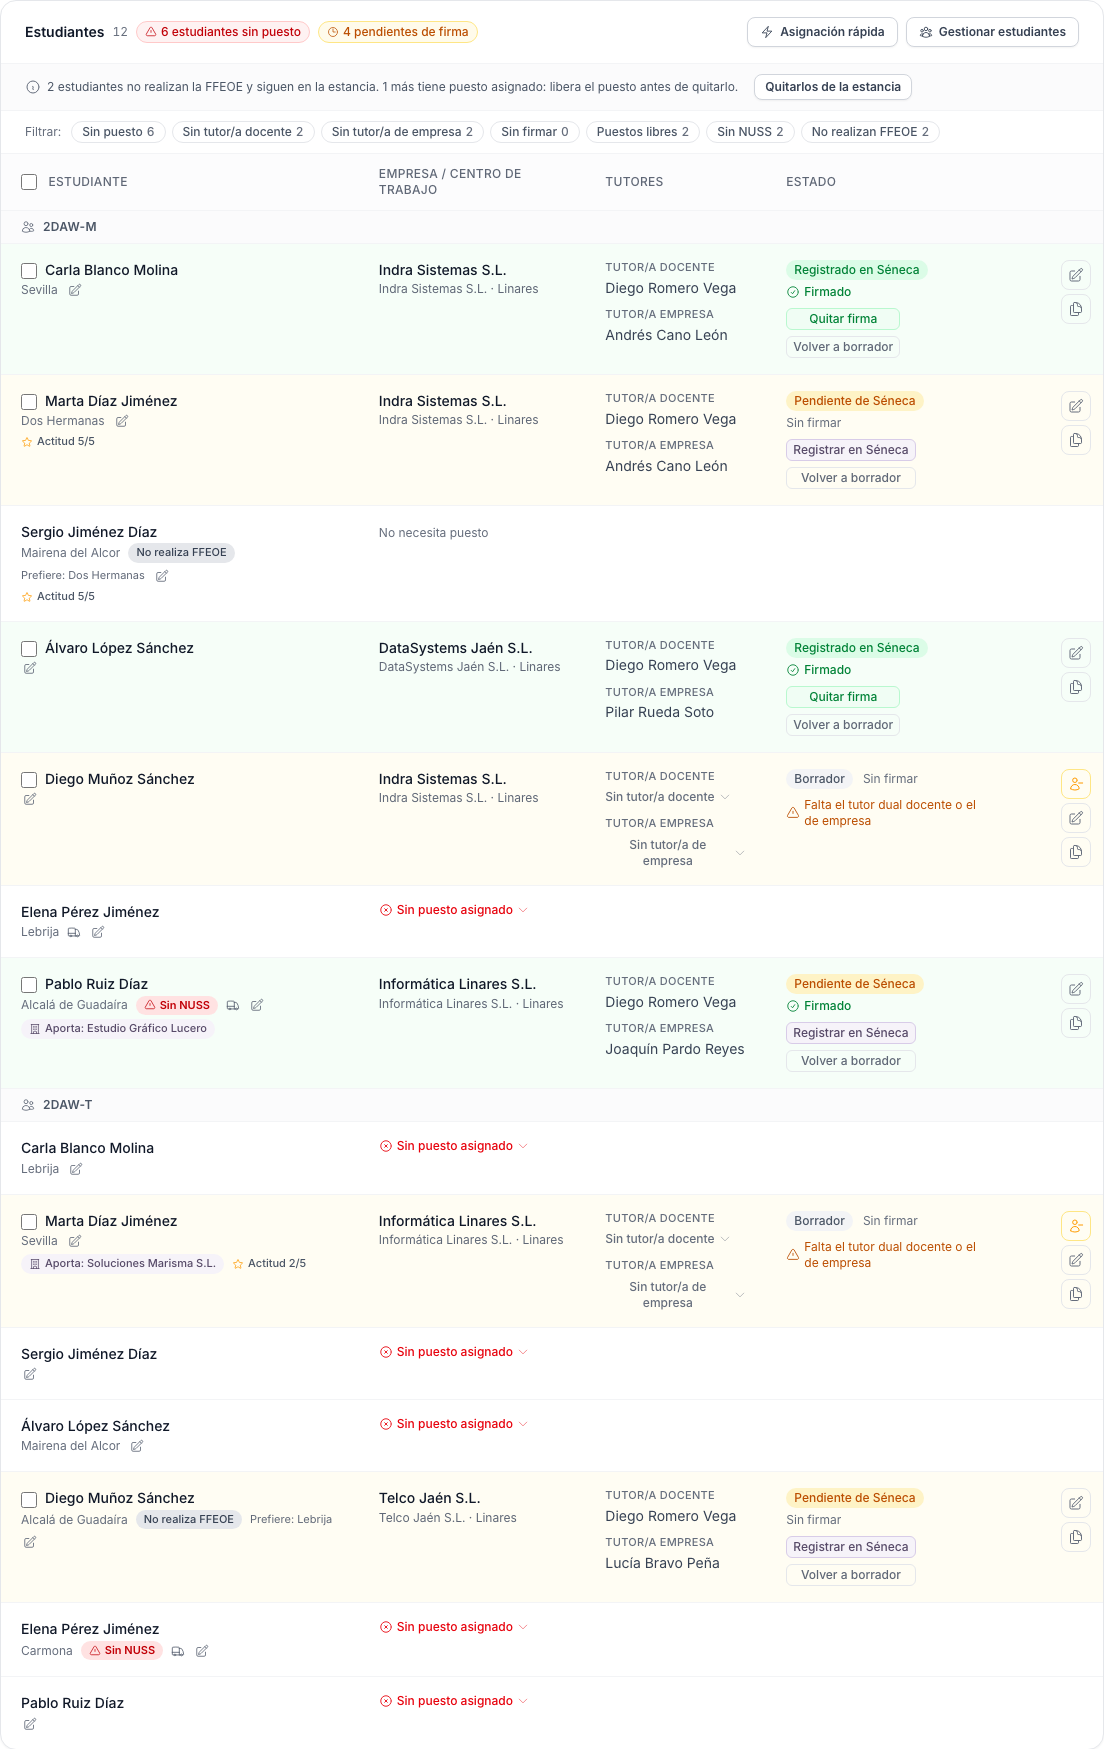
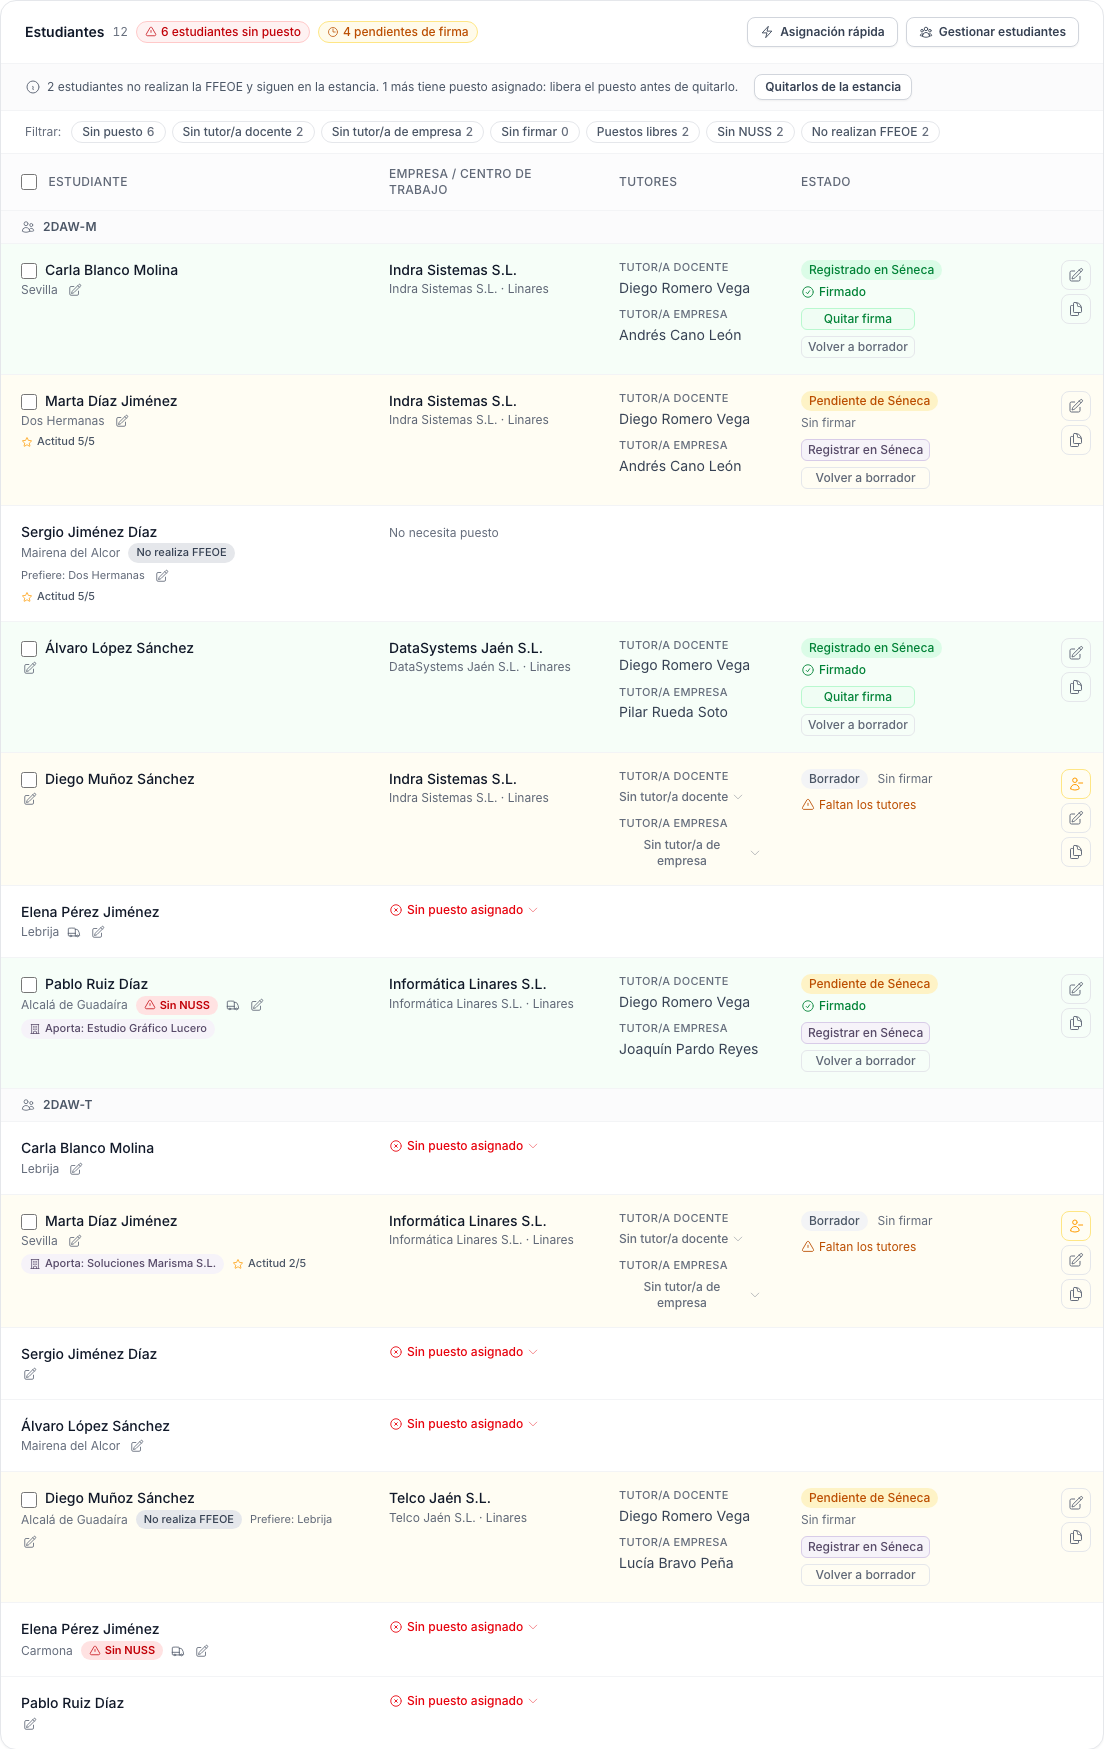
refactor(stays): textos más cortos para el aviso de tutores que faltan
Claude-Session: https://claude.ai/code/session_01Q8R8uUPa8Fsi2RwKV4XKcs

diff --git a/tests/Integration/Component/StayDetailComponentTest.php b/tests/Integration/Component/StayDetailComponentTest.php
@@ -491,7 +491,7 @@ class StayDetailComponentTest extends ControllerTestCase
         $this->flush();
 
         $component = $this->detail($admin, $stay);
-        self::assertStringContainsString('Falta el tutor dual docente o el de empresa', (string) $component->render());
+        self::assertStringContainsString('Faltan los tutores', (string) $component->render());
 
         $component->call('changeState', ['positionId' => $position->getId()->toRfc4122(), 'state' => 'PENDING']);
 
